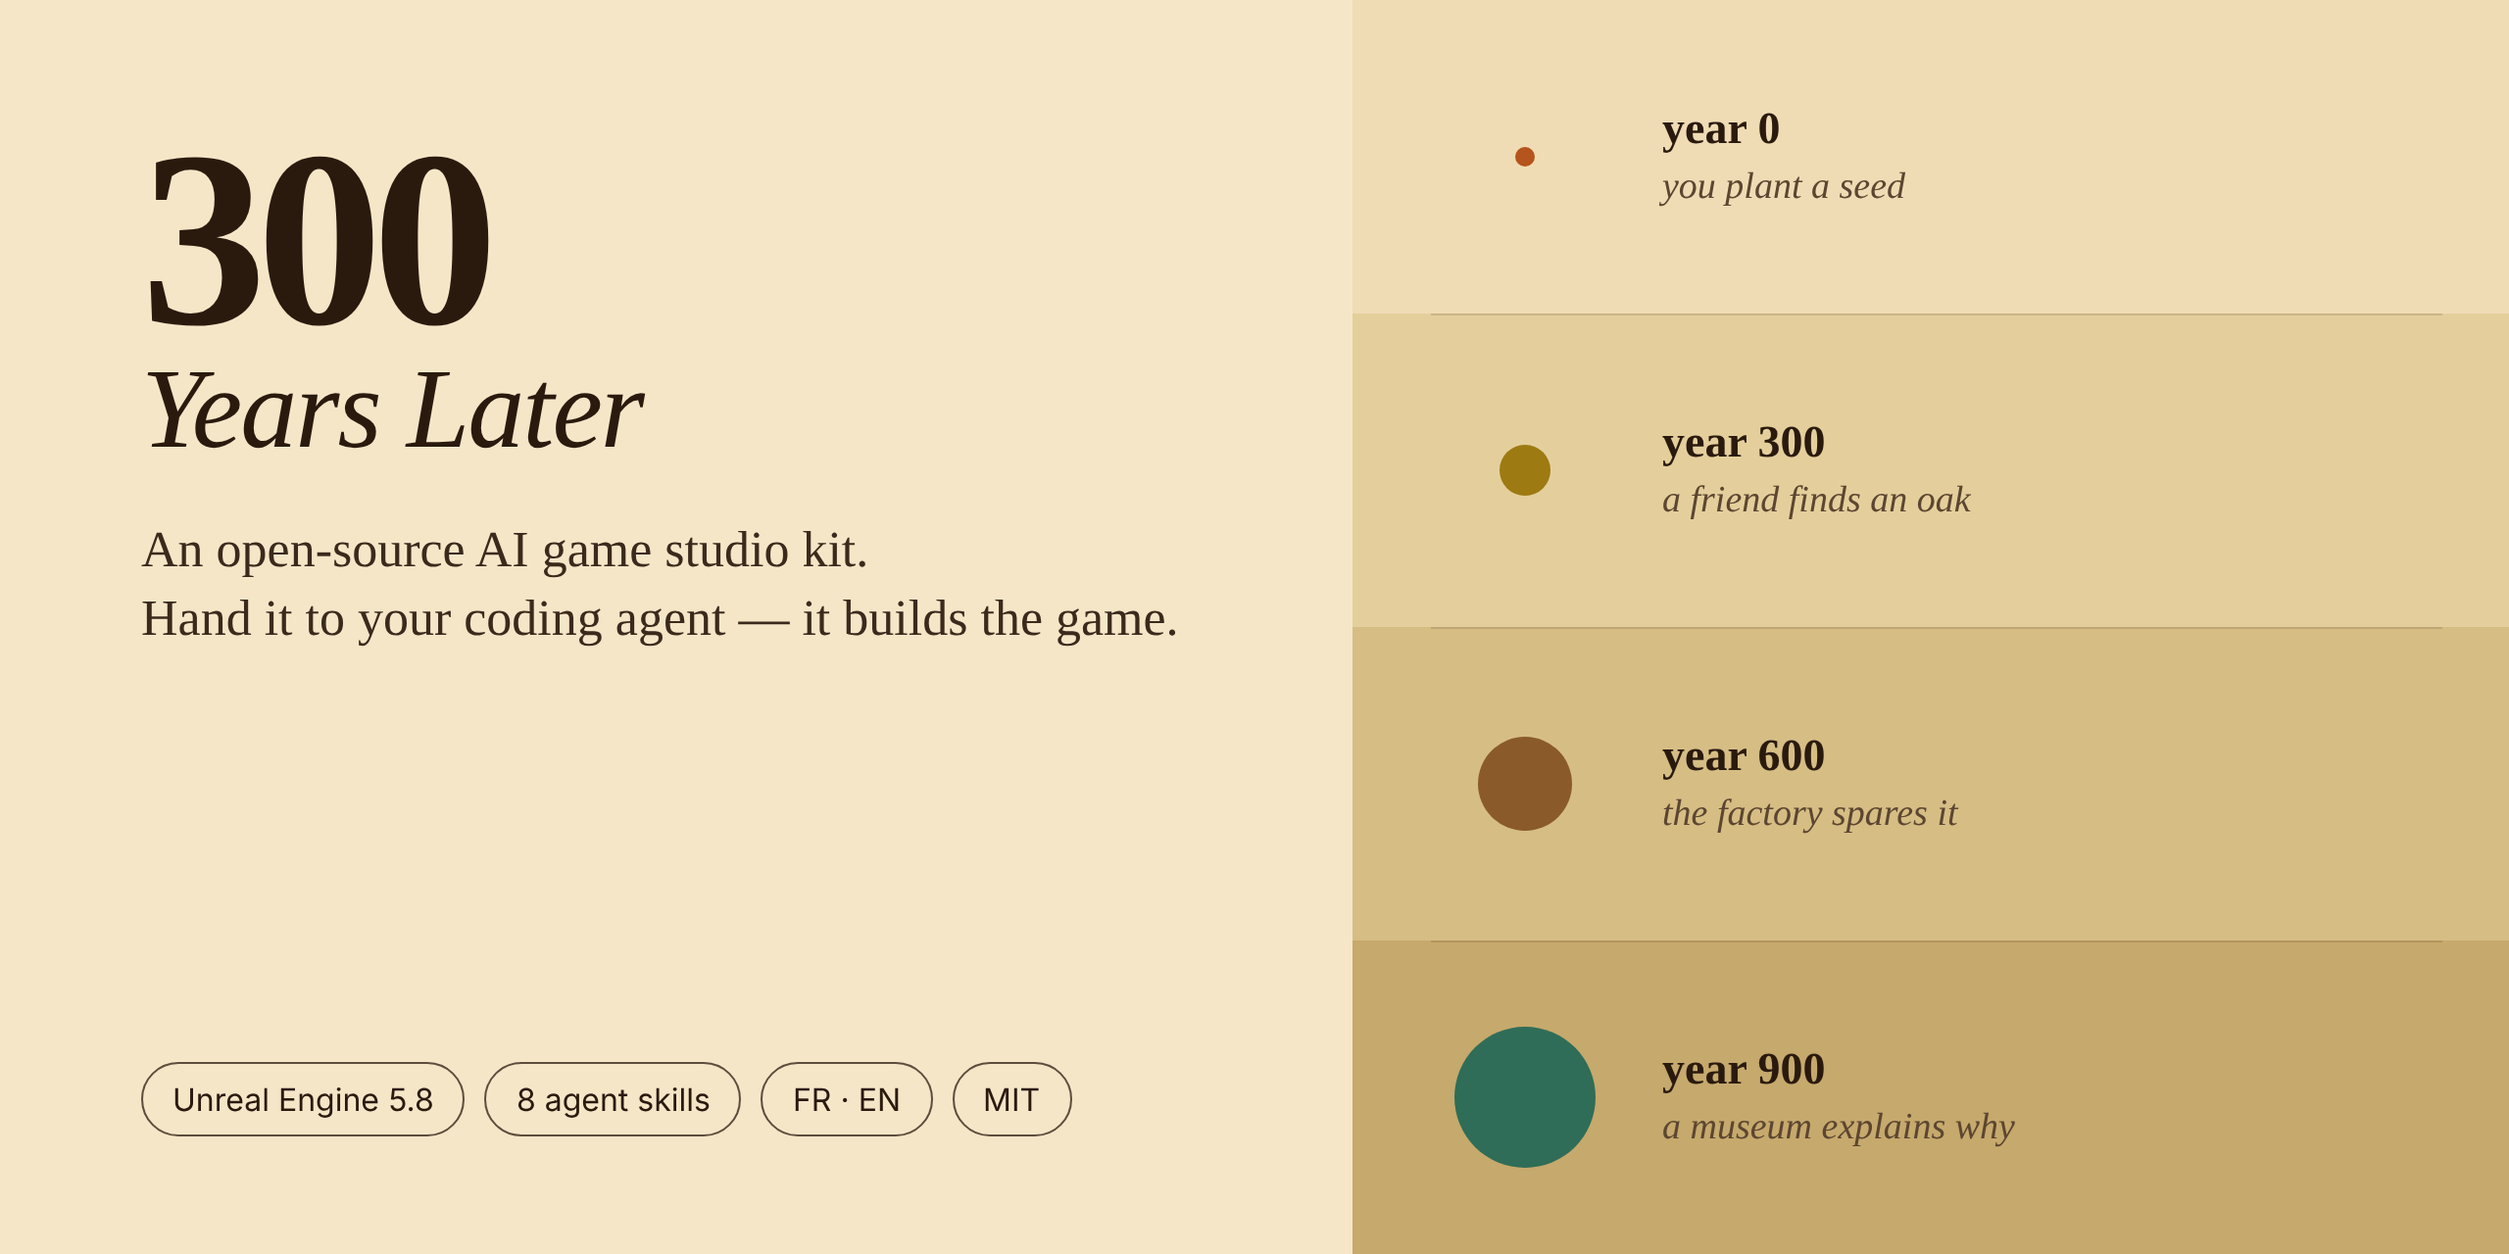
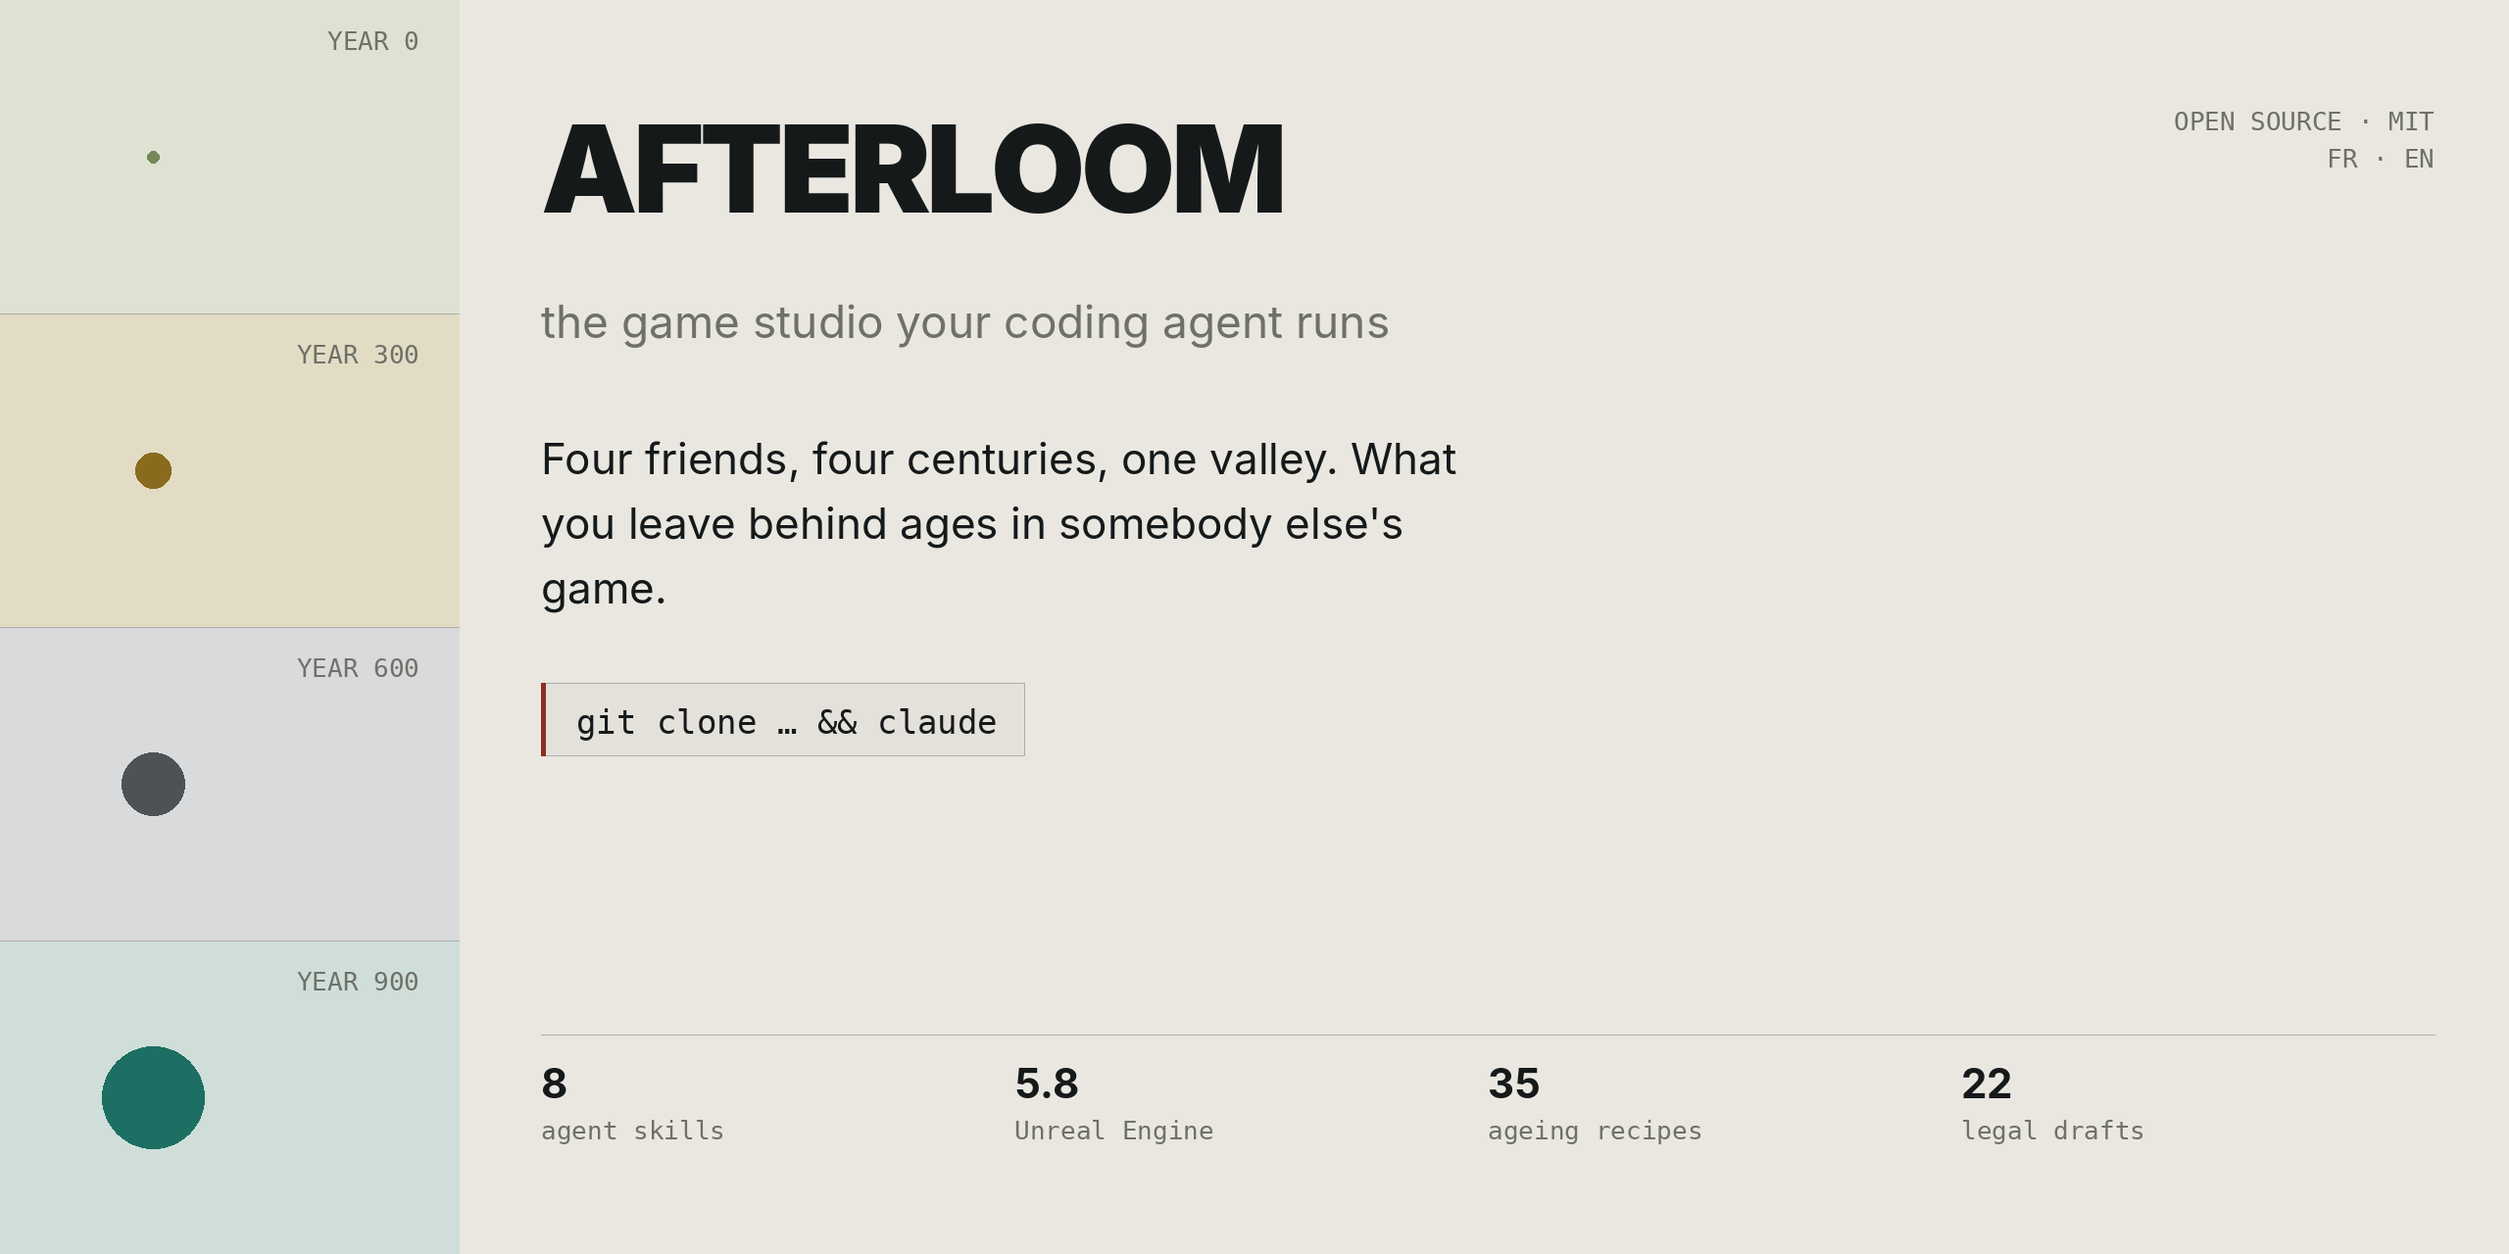
feat: adopt Afterloom as the public title (ADR 0021)
The owner accepted ADR 0021. tools/apply_public_title.py replaced 56 occurrences
across 40 files; the rest of this commit is what a mechanical rename cannot judge.

- ADR 0021 moves from proposed to accepted; DECISIONS.md records it with its
  alternatives and the one command that reverses it; QUESTIONS.md Q1 is closed.
- "working title" reworded wherever it now reads as undecided: both READMEs, the
  Steam page, the press kit, llms.txt, studio.config.yaml. The title is decided;
  what is still pending is the trademark search, and the text now says that.
- LICENSE-CONTENT.md states, in both languages, that Afterloom is not covered by
  the licence and that "The 300 Years Later contributors" does not follow the title.
- The landing wordmark was markup-split as <span>300</span><span>Years Later</span>,
  so the rename could not see it. Rebuilt as one word in the design system's own
  terms: grotesque, 800, -0.035em — the serif lockup had nothing left to separate.
- docs/assets/banner.png still showed the old title in the pre-rename palette while
  README.md captioned it "Afterloom". Brand images are now rendered from
  design-system/tokens.json by tools/render_brand_assets.py, so they cannot drift
  from the tokens or the title again; --check fails when they have. banner.png is
  the English card, social-card.png the French one, and README.fr.md uses the latter.
- .github/about.yml leads with the title.
[…]

diff --git a/marketing/landing/index.html b/marketing/landing/index.html
@@ -3,15 +3,15 @@
 <head>
 <meta charset="utf-8">
 <meta name="viewport" content="width=device-width,initial-scale=1">
-<title>300 Years Later — un jeu coopératif à travers les siècles</title>
+<title>Afterloom — un jeu coopératif à travers les siècles</title>
 <meta name="description" content="Jusqu'à 4 amis, chacun dans un siècle différent de la même vallée. Ce que tu fais aujourd'hui, ton ami le retrouve 300 ans plus tard.">
-<meta property="og:title" content="300 Years Later">
+<meta property="og:title" content="Afterloom">
 <meta property="og:description" content="4 amis. 4 siècles. 1 vallée. Un jeu coopératif où le passé vieillit en direct chez tes amis.">
 <meta property="og:type" content="website">
 <meta name="color-scheme" content="light dark">
 <link rel="canonical" href="https://aksilsmd.github.io/300-years-later/">
 <meta property="og:url" content="https://aksilsmd.github.io/300-years-later/">
-<meta property="og:site_name" content="300 Years Later">
+<meta property="og:site_name" content="Afterloom">
 <meta property="og:locale" content="fr_FR">
 <meta property="og:locale:alternate" content="en_GB">
 <meta name="twitter:card" content="summary_large_image">
@@ -20,7 +20,7 @@
 <link rel="alternate" hreflang="en" href="https://aksilsmd.github.io/300-years-later/?lang=en">
 <link rel="alternate" hreflang="x-default" href="https://aksilsmd.github.io/300-years-later/">
 <script type="application/ld+json">
-{"@context":"https://schema.org","@type":"VideoGame","name":"300 Years Later",
+{"@context":"https://schema.org","@type":"VideoGame","name":"Afterloom",
  "alternateName":"Century Temps",
  "description":"Co-op game for 1 to 4 players: each player lives in a different century of the same valley, and everything left behind ages in real time in the others' game.",
  "genre":["Cooperative","Sandbox","Simulation"],
@@ -42,7 +42,7 @@
 <a class="skip" href="#contenu" data-i18n="skip">Aller au contenu</a>
 
 <header class="top">
-  <a class="wordmark" href="#" aria-label="300 Years Later, accueil"><span class="wm-num">300</span> <span class="wm-txt">Years Later</span></a>
+  <a class="wordmark" href="#" aria-label="Afterloom, accueil">Afterloom</a>
   <nav aria-label="Langue" class="lang">
     <button type="button" data-lang="fr" aria-pressed="true">FR</button>
     <button type="button" data-lang="en" aria-pressed="false">EN</button>

diff --git a/marketing/landing-react/index.html b/marketing/landing-react/index.html
@@ -3,14 +3,14 @@
   <head>
     <meta charset="utf-8" />
     <meta name="viewport" content="width=device-width,initial-scale=1" />
-    <title>300 Years Later — un jeu coopératif à travers les siècles</title>
+    <title>Afterloom — un jeu coopératif à travers les siècles</title>
     <meta name="description" content="Jusqu'à 4 amis, chacun dans un siècle différent de la même vallée. Ce que tu fais aujourd'hui, ton ami le retrouve 300 ans plus tard." />
-    <meta property="og:title" content="300 Years Later" />
+    <meta property="og:title" content="Afterloom" />
     <meta property="og:description" content="4 amis. 4 siècles. 1 vallée." />
     <!-- og:image : n'ajouter qu'un rendu validé dans media/APPROVALS.md, hébergé localement -->
     <link rel="canonical" href="https://aksilsmd.github.io/300-years-later/">
     <meta property="og:url" content="https://aksilsmd.github.io/300-years-later/">
-    <meta property="og:site_name" content="300 Years Later">
+    <meta property="og:site_name" content="Afterloom">
     <meta property="og:locale" content="fr_FR">
     <meta property="og:locale:alternate" content="en_GB">
     <meta name="twitter:card" content="summary_large_image">
@@ -19,7 +19,7 @@
     <link rel="alternate" hreflang="en" href="https://aksilsmd.github.io/300-years-later/?lang=en">
     <link rel="alternate" hreflang="x-default" href="https://aksilsmd.github.io/300-years-later/">
     <script type="application/ld+json">
-    {"@context":"https://schema.org","@type":"VideoGame","name":"300 Years Later",
+    {"@context":"https://schema.org","@type":"VideoGame","name":"Afterloom",
      "alternateName":"Century Temps",
      "description":"Co-op game for 1 to 4 players: each player lives in a different century of the same valley, and everything left behind ages in real time in the others' game.",
      "genre":["Cooperative","Sandbox","Simulation"],

diff --git a/marketing/landing-react/src/styles.css b/marketing/landing-react/src/styles.css
@@ -1,4 +1,4 @@
-/* 300 Years Later — landing de référence, sans dépendance ni ressource externe.
+/* Afterloom — landing de référence, sans dépendance ni ressource externe.
    Polices : si les fichiers OFL Fraunces / Bricolage Grotesque sont ajoutés dans fonts/
    (avec leur licence), ils sont utilisés ; sinon, repli sur les polices système. */
 
@@ -46,10 +46,9 @@ a { color: inherit; }
 
 /* En-tête */
 .top { position: sticky; top: 0; z-index: 5; display: flex; align-items: center; gap: 1.5rem; padding: 1rem clamp(1rem, 4vw, 3rem); background: color-mix(in srgb, var(--bg) 88%, transparent); backdrop-filter: blur(8px); transition: var(--transition); }
-.wordmark { font-family: var(--serif); font-size: 1.25rem; text-decoration: none; margin-right: auto; white-space: nowrap; }
+.wordmark { font-size: 1.25rem; font-weight: 800; letter-spacing: -0.035em; text-decoration: none; margin-right: auto; white-space: nowrap; }
 .btn-small { white-space: nowrap; }
-.wm-num { font-weight: 800; font-variant-numeric: lining-nums; }
-.wm-txt { font-style: italic; font-weight: 400; }
+
 .lang { display: flex; gap: .25rem; }
 .lang button { font: 600 var(--step--1) var(--sans); background: none; color: inherit; border: 1px solid transparent; border-radius: .4rem; padding: .3rem .55rem; cursor: pointer; }
 .lang button[aria-pressed="true"] { border-color: currentColor; }

diff --git a/marketing/landing/styles.css b/marketing/landing/styles.css
@@ -1,4 +1,4 @@
-/* 300 Years Later — landing de référence, sans dépendance ni ressource externe.
+/* Afterloom — landing de référence, sans dépendance ni ressource externe.
    Polices : si les fichiers OFL Fraunces / Bricolage Grotesque sont ajoutés dans fonts/
    (avec leur licence), ils sont utilisés ; sinon, repli sur les polices système. */
 
@@ -46,10 +46,9 @@ a { color: inherit; }
 
 /* En-tête */
 .top { position: sticky; top: 0; z-index: 5; display: flex; align-items: center; gap: 1.5rem; padding: 1rem clamp(1rem, 4vw, 3rem); background: color-mix(in srgb, var(--bg) 88%, transparent); backdrop-filter: blur(8px); transition: var(--transition); }
-.wordmark { font-family: var(--serif); font-size: 1.25rem; text-decoration: none; margin-right: auto; white-space: nowrap; }
+.wordmark { font-size: 1.25rem; font-weight: 800; letter-spacing: -0.035em; text-decoration: none; margin-right: auto; white-space: nowrap; }
 .btn-small { white-space: nowrap; }
-.wm-num { font-weight: 800; font-variant-numeric: lining-nums; }
-.wm-txt { font-style: italic; font-weight: 400; }
+
 .lang { display: flex; gap: .25rem; }
 .lang button { font: 600 var(--step--1) var(--sans); background: none; color: inherit; border: 1px solid transparent; border-radius: .4rem; padding: .3rem .55rem; cursor: pointer; }
 .lang button[aria-pressed="true"] { border-color: currentColor; }

diff --git a/marketing/landing-react/public/legal/presse.html b/marketing/landing-react/public/legal/presse.html
@@ -1,3 +1,3 @@
-<!doctype html><html lang="fr"><head><meta charset="utf-8"><meta name="viewport" content="width=device-width,initial-scale=1"><title>Presse et créateurs — 300 Years Later</title><link rel="stylesheet" href="../styles.css"></head>
+<!doctype html><html lang="fr"><head><meta charset="utf-8"><meta name="viewport" content="width=device-width,initial-scale=1"><title>Presse et créateurs — Afterloom</title><link rel="stylesheet" href="../styles.css"></head>
 <body><main class="faq" id="contenu"><p><a href="../index.html">Retour à l'accueil</a></p><h1>Presse et créateurs</h1>
 <p>Cette page sera publiée après validation juridique. Les brouillons de référence se trouvent dans le dossier <code>legal/</code> du dépôt du projet.</p></main></body></html>

diff --git a/marketing/landing/legal/presse.html b/marketing/landing/legal/presse.html
@@ -1,3 +1,3 @@
-<!doctype html><html lang="fr"><head><meta charset="utf-8"><meta name="viewport" content="width=device-width,initial-scale=1"><title>Presse et créateurs — 300 Years Later</title><link rel="stylesheet" href="../styles.css"></head>
+<!doctype html><html lang="fr"><head><meta charset="utf-8"><meta name="viewport" content="width=device-width,initial-scale=1"><title>Presse et créateurs — Afterloom</title><link rel="stylesheet" href="../styles.css"></head>
 <body><main class="faq" id="contenu"><p><a href="../index.html">Retour à l'accueil</a></p><h1>Presse et créateurs</h1>
 <p>Cette page sera publiée après validation juridique. Les brouillons de référence se trouvent dans le dossier <code>legal/</code> du dépôt du projet.</p></main></body></html>

diff --git a/marketing/landing-react/public/legal/mentions-legales.html b/marketing/landing-react/public/legal/mentions-legales.html
@@ -1,3 +1,3 @@
-<!doctype html><html lang="fr"><head><meta charset="utf-8"><meta name="viewport" content="width=device-width,initial-scale=1"><title>Mentions légales — 300 Years Later</title><link rel="stylesheet" href="../styles.css"></head>
+<!doctype html><html lang="fr"><head><meta charset="utf-8"><meta name="viewport" content="width=device-width,initial-scale=1"><title>Mentions légales — Afterloom</title><link rel="stylesheet" href="../styles.css"></head>
 <body><main class="faq" id="contenu"><p><a href="../index.html">Retour à l'accueil</a></p><h1>Mentions légales</h1>
 <p>Cette page sera publiée après validation juridique. Les brouillons de référence se trouvent dans le dossier <code>legal/</code> du dépôt du projet.</p></main></body></html>

diff --git a/marketing/landing/legal/mentions-legales.html b/marketing/landing/legal/mentions-legales.html
@@ -1,3 +1,3 @@
-<!doctype html><html lang="fr"><head><meta charset="utf-8"><meta name="viewport" content="width=device-width,initial-scale=1"><title>Mentions légales — 300 Years Later</title><link rel="stylesheet" href="../styles.css"></head>
+<!doctype html><html lang="fr"><head><meta charset="utf-8"><meta name="viewport" content="width=device-width,initial-scale=1"><title>Mentions légales — Afterloom</title><link rel="stylesheet" href="../styles.css"></head>
 <body><main class="faq" id="contenu"><p><a href="../index.html">Retour à l'accueil</a></p><h1>Mentions légales</h1>
 <p>Cette page sera publiée après validation juridique. Les brouillons de référence se trouvent dans le dossier <code>legal/</code> du dépôt du projet.</p></main></body></html>

diff --git a/marketing/landing-react/public/legal/confidentialite.html b/marketing/landing-react/public/legal/confidentialite.html
@@ -1,3 +1,3 @@
-<!doctype html><html lang="fr"><head><meta charset="utf-8"><meta name="viewport" content="width=device-width,initial-scale=1"><title>Confidentialité — 300 Years Later</title><link rel="stylesheet" href="../styles.css"></head>
+<!doctype html><html lang="fr"><head><meta charset="utf-8"><meta name="viewport" content="width=device-width,initial-scale=1"><title>Confidentialité — Afterloom</title><link rel="stylesheet" href="../styles.css"></head>
 <body><main class="faq" id="contenu"><p><a href="../index.html">Retour à l'accueil</a></p><h1>Confidentialité</h1>
 <p>Cette page sera publiée après validation juridique. Les brouillons de référence se trouvent dans le dossier <code>legal/</code> du dépôt du projet.</p></main></body></html>

diff --git a/marketing/landing/legal/confidentialite.html b/marketing/landing/legal/confidentialite.html
@@ -1,3 +1,3 @@
-<!doctype html><html lang="fr"><head><meta charset="utf-8"><meta name="viewport" content="width=device-width,initial-scale=1"><title>Confidentialité — 300 Years Later</title><link rel="stylesheet" href="../styles.css"></head>
+<!doctype html><html lang="fr"><head><meta charset="utf-8"><meta name="viewport" content="width=device-width,initial-scale=1"><title>Confidentialité — Afterloom</title><link rel="stylesheet" href="../styles.css"></head>
 <body><main class="faq" id="contenu"><p><a href="../index.html">Retour à l'accueil</a></p><h1>Confidentialité</h1>
 <p>Cette page sera publiée après validation juridique. Les brouillons de référence se trouvent dans le dossier <code>legal/</code> du dépôt du projet.</p></main></body></html>

diff --git a/marketing/video/src/Trailer.tsx b/marketing/video/src/Trailer.tsx
@@ -19,7 +19,7 @@ function Title({ lang }: { lang: "fr" | "en" }) {
   const o = interpolate(frame, [0, 18], [0, 1], { extrapolateRight: "clamp" });
   return (
     <AbsoluteFill style={{ background: "#0d1030", color: "#e9e6ff", justifyContent: "center", alignItems: "center", fontFamily: "Georgia, serif", opacity: o }}>
-      <div style={{ fontSize: 150, fontWeight: 800, letterSpacing: -4 }}>300 Years Later</div>
+      <div style={{ fontSize: 150, fontWeight: 800, letterSpacing: -4 }}>Afterloom</div>
       <div style={{ fontSize: 44, marginTop: 24 }}>{lang === "fr" ? "Ajoutez-le à votre liste de souhaits" : "Wishlist it now"}</div>
     </AbsoluteFill>
   );

diff --git a/marketing/landing-react/src/components/Header.tsx b/marketing/landing-react/src/components/Header.tsx
@@ -5,8 +5,8 @@ type Props = { lang: Lang; setLang: (l: Lang) => void; t: Content };
 export function Header({ lang, setLang, t }: Props) {
   return (
     <header className="top">
-      <a className="wordmark" href="#" aria-label="300 Years Later">
-        <span className="wm-num">300</span> <span className="wm-txt">Years Later</span>
+      <a className="wordmark" href="#" aria-label="Afterloom">
+        Afterloom
       </a>
       <nav aria-label="Langue / Language" className="lang">
         {(["fr", "en"] as const).map((l) => (
